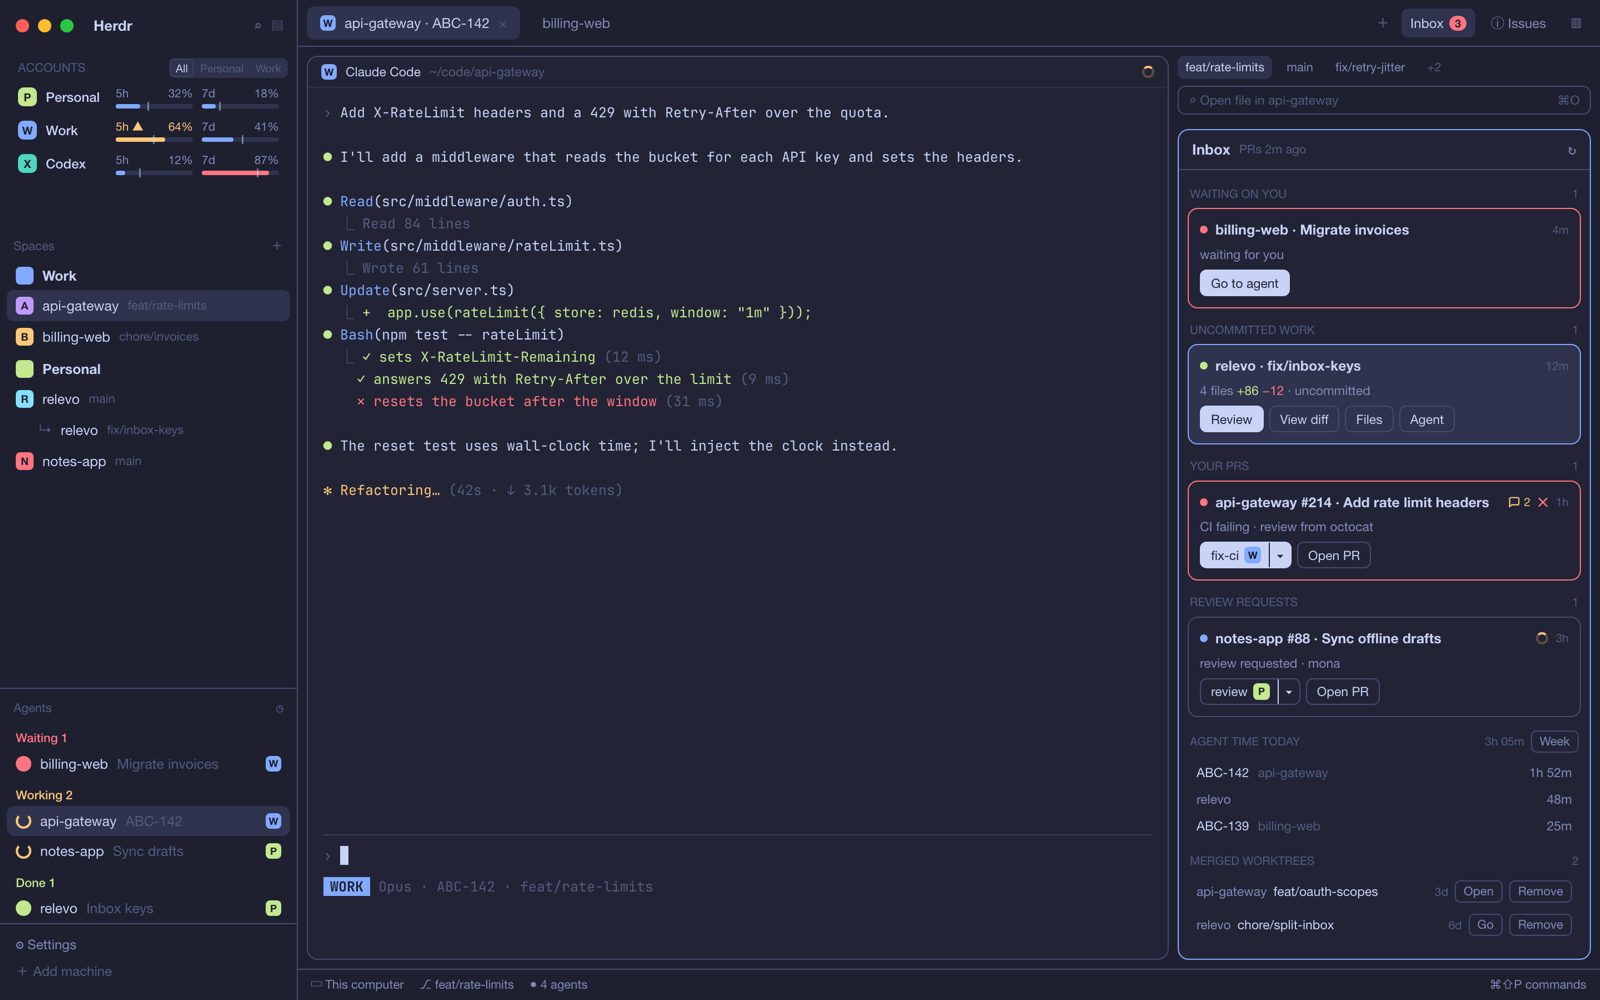
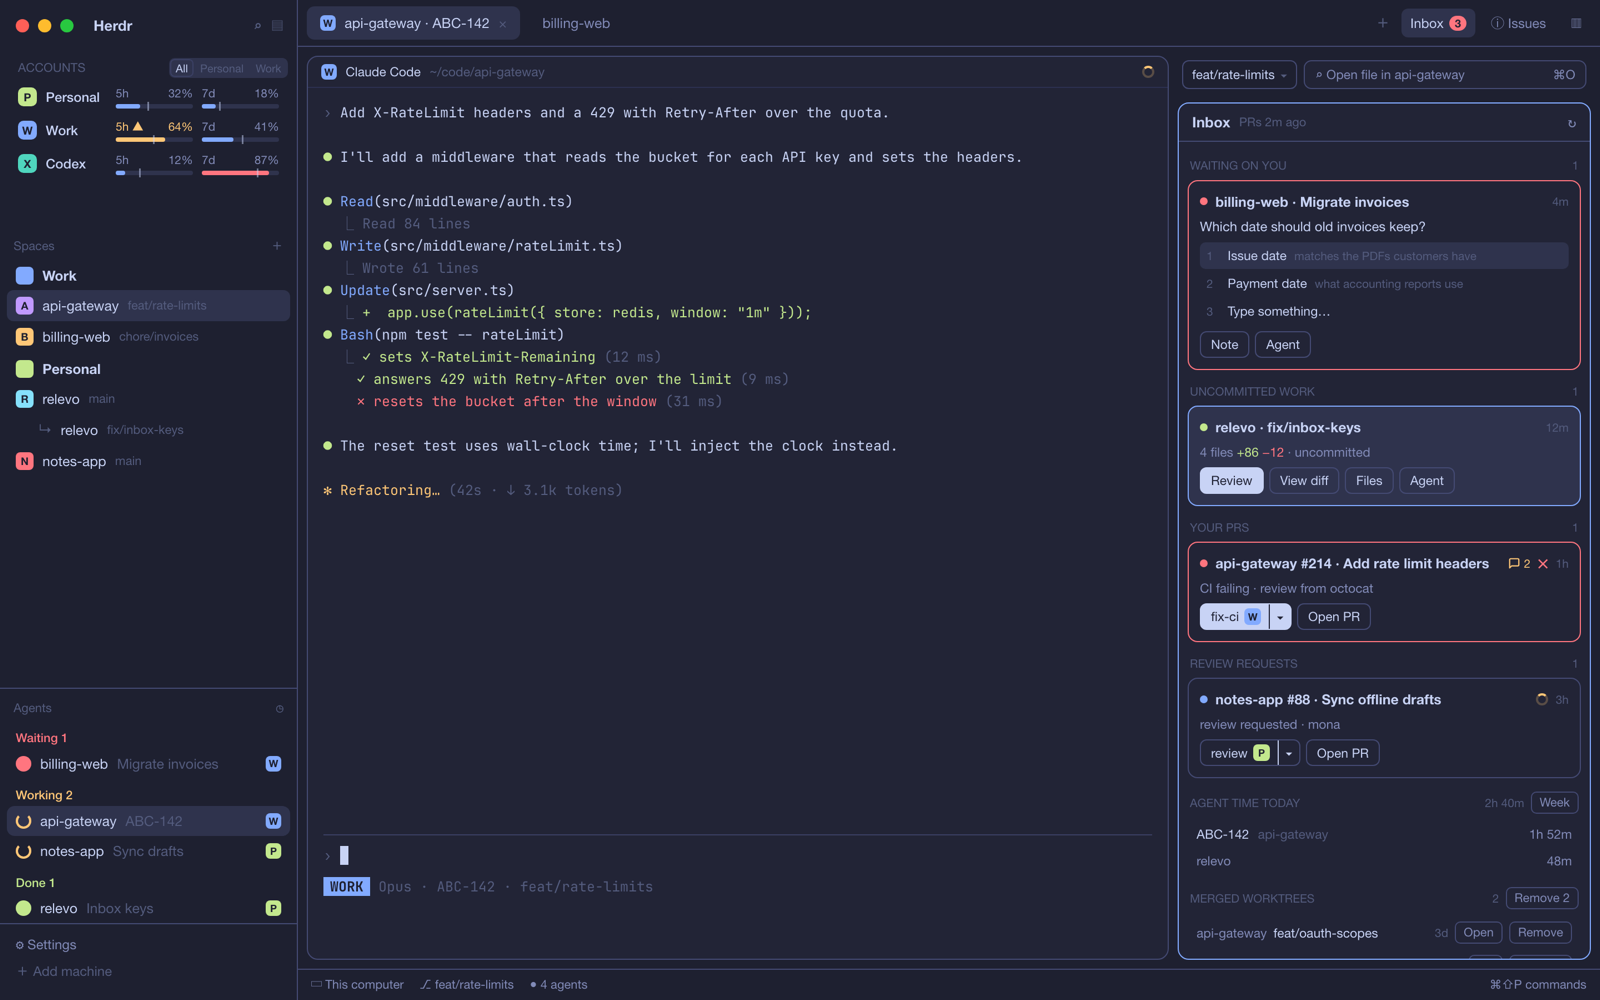
docs: screenshots of each feature, release 0.4.0
The README shows what each part does: answering agents from the Inbox,
reviewing a PR, the quota handoff, editing in Files and the checkout
selector. Files no longer carries Herdr's Windows listing.

diff --git a/mods/relevo-files/main.js b/mods/relevo-files/main.js
@@ -2,7 +2,7 @@
 // Derived from the `files` mod that ships with Herdr (Apache-2.0).
 import { View, div, svg } from "gpui-kit";
 import { v_flex, h_flex } from "gpui-base";
-import { spaces, panes, focused, exec, readTextFile, watchFolder, theme, window, props, shared } from "herdr";
+import { spaces, panes, focused, exec, readTextFile, watchFolder, theme, props, shared } from "herdr";
 import { FileEditor } from "./editor.js";
 import { FileMenu, NameDialog, openMenu } from "./actions.js";
 import { FileView } from "./view.js";
@@ -18,12 +18,6 @@ const key = () => JSON.stringify(location());
 const PER_FOLDER = 500, TOTAL = 5000;
 
 async function directory(path, on) {
-  if (!on && window()?.platform === "windows") {
-    const r = await exec("powershell", ["-NoProfile", "-Command", "& { param($p) @(Get-ChildItem -LiteralPath $p -Force -ErrorAction Stop | Where-Object Name -ne '.git' | Select-Object -First 501 | ForEach-Object { @{ name=$_.Name; dir=($_.PSIsContainer -and -not ($_.Attributes -band [IO.FileAttributes]::ReparsePoint)) } }) | ConvertTo-Json -Compress } '" + path.replaceAll("'", "''") + "'"]);
-    if (r.code !== 0) throw new Error(r.stderr || "Cannot list this folder");
-    const result = JSON.parse(r.stdout || "[]");
-    return Array.isArray(result) ? result : [result];
-  }
   const script = 'n=0; for p in "$1"/* "$1"/.[!.]* "$1"/..?*; do [ -e "$p" ] || [ -L "$p" ] || continue; name=${p##*/}; [ "$name" = .git ] && continue; if [ -d "$p" ] && [ ! -L "$p" ]; then kind=d; else kind=f; fi; printf "%s\\0%s\\0" "$kind" "$name"; n=$((n+1)); [ "$n" -gt 500 ] && break; done; test -d "$1"';
   const r = await exec("sh", ["-c", script, "files", path], { on });
   if (r.code !== 0) throw new Error(r.stderr || "Cannot list this folder");

diff --git a/README.md b/README.md
@@ -7,7 +7,44 @@ alerts when a PR's CI or reviews change, and a ledger of agent time per ticket.
 
 ![Relevo](preview.png)
 
-*The preview is a mockup with demo data, drawn to match the layout.*
+*The preview and screenshots are mockups with demo data, drawn to match the layout.*
+
+## What it does
+
+### Answer agents without leaving your work
+
+A waiting agent's question shows in the Inbox with its choices, its preview and a note field. Click a choice and
+the agent continues; multiple choice gets a Submit.
+
+![An agent's question answered from the Inbox](screenshots/answer.png)
+
+### Review a whole PR, then hand the comments to its agent
+
+Click a line or shift-click a range, comment, and **Send to agent**. Your PR cards open the PR against its base even
+when the branch isn't checked out.
+
+![The review pane with range and line comments](screenshots/review.png)
+
+### Never stop at 100%
+
+Each quota bar says when it runs out at the current pace. At 95%, an alert offers to continue the agent with another
+account; it writes the handoff note for you.
+
+![A quota at 95% and the handoff to another account](screenshots/handoff.png)
+
+### Edit files in the panel
+
+Right-click in Files to create, rename, trash, reveal or copy a path. Edit a preview and save with ⌘S; a change on
+disk while you edit asks **Reload** or **Keep mine**, so nothing is overwritten silently.
+
+![The Files panel's menu and a file being edited](screenshots/files.png)
+
+### Every checkout, one click away
+
+The panel bar's selector lists every checkout of the repo with uncommitted files, ahead/behind and last use. Merged
+worktrees that are safe to remove go in one Confirm.
+
+![The checkout selector and merged worktrees](screenshots/worktrees.png)
 
 ## Install
 
@@ -26,18 +63,18 @@ outside it, it decides on its own.
 
 ## What it reads and runs
 
-- Runs `git`, `gh`, `hc` and the launchers in `config.js`.
+- Runs `git`, `gh`, `hc` and the launchers in `config.js`; Files runs `/usr/bin/trash`, `open -R`, `mv -n` and `mkdir`.
 - Reaches the network for quotas: each Claude account's login from the macOS Keychain goes to Anthropic's usage
   endpoint, and Codex's `~/.codex/auth.json` to ChatGPT's. It never refreshes or writes a token.
 - Writes `~/.local/state/relevo/ledger.jsonl` (agent time) and `~/.local/state/relevo/handoff/` (handoff notes),
-  and the folders it adds to space-folders' file.
+  the folders it adds to space-folders' file, and files you create, rename or save in Files.
 - Optional: sounds at `~/.config/herdr-app/sounds/{quota,review,bg-done}.mp3`; quota snapshots a Claude
   statusline writes to `~/.cache/herdr-relevo/quota-<account>.json`; `agent.account` and `agent.jira`
   terminal labels from a Claude hook, for account chips and per-ticket time.
 
 ## Tests
 
-`node --test 'test/*.test.mjs'` from `mods/relevo`, and `npx eslint@10.13.0 mods` from the root for undefined names (Node from `.nvmrc`). CI runs both on every push.
+`node --test 'test/*.test.mjs'` from `mods/relevo` and `mods/relevo-files`, and `npx eslint@10.13.0 mods` from the root for undefined names (Node from `.nvmrc`). CI runs both on every push.
 
 ## License
 

diff --git a/CHANGELOG.md b/CHANGELOG.md
@@ -1,10 +1,11 @@
 # Changelog
 
-## Unreleased
+## 0.4.0 · 2026-11-01
 
 - **Checkout selector.** The panel bar's worktree chips become one selector: every checkout of the repo with its uncommitted files, ahead/behind and last use, newest first.
 - **Files with actions.** Right-click a file or folder: New file, New folder, Rename, Move to Trash, Reveal in Finder, Copy path and Copy relative path.
 - **Edit files.** The Files preview and the file view have an Edit button; ⌘S saves, a dot marks unsaved changes, and a change on disk while you edit asks Reload or Keep mine.
+- **Screenshots** of each feature in the README.
 
 ## 0.3.0 · 2026-11-01
 
